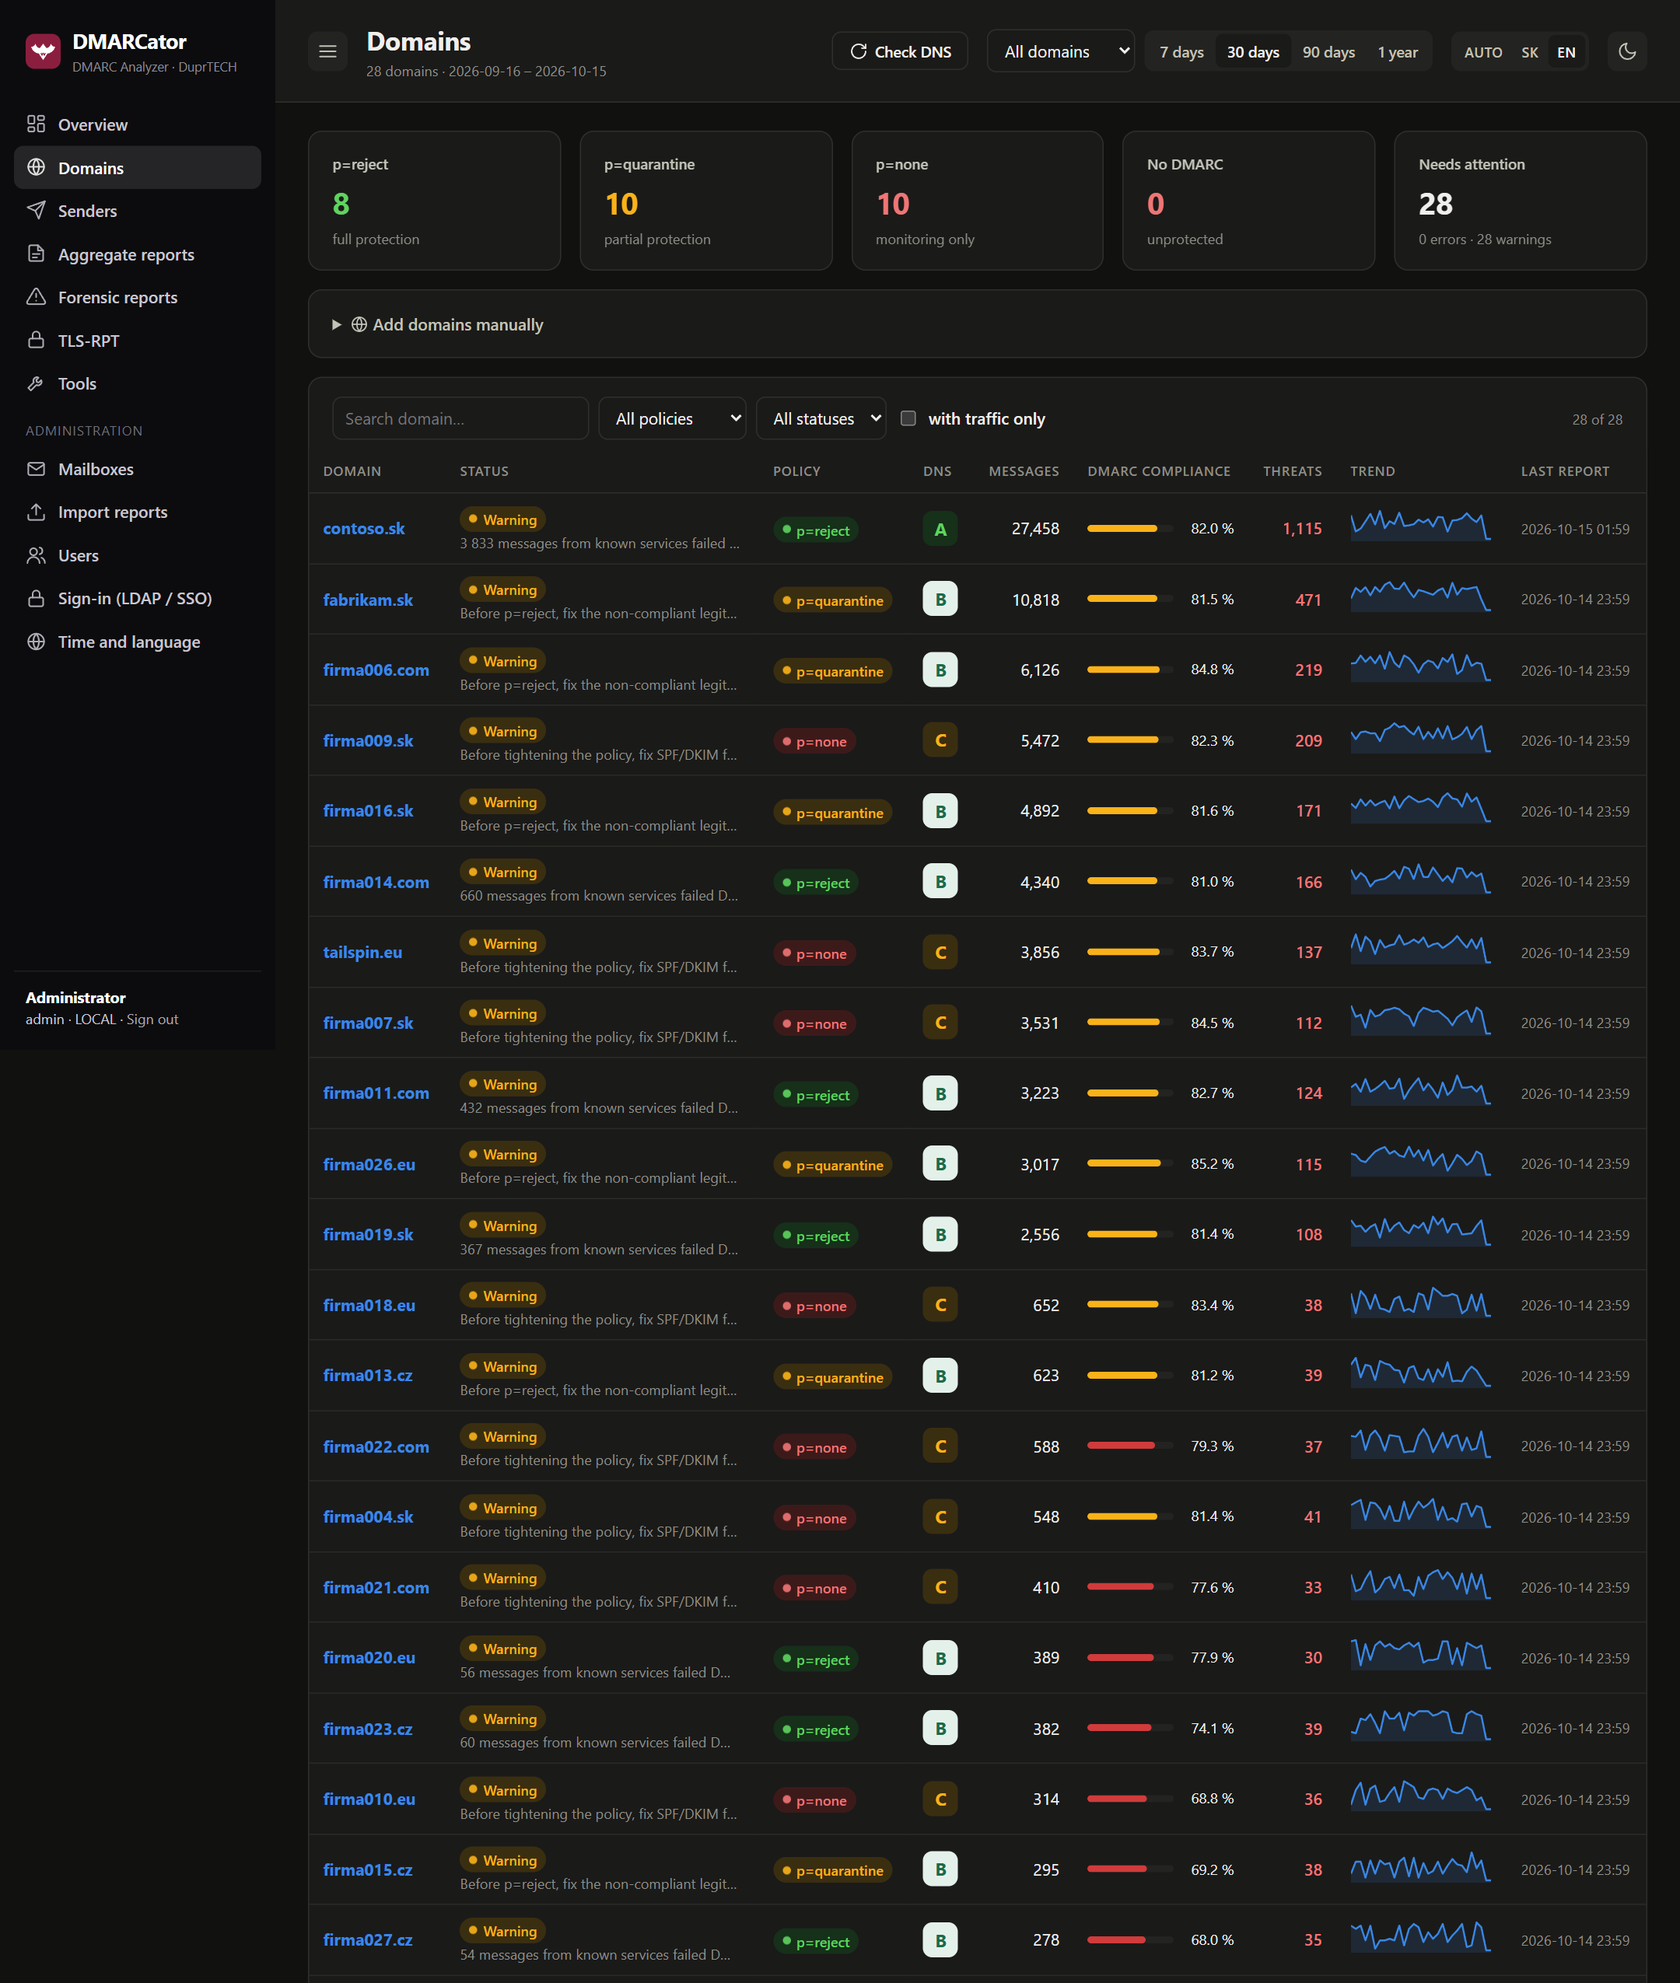
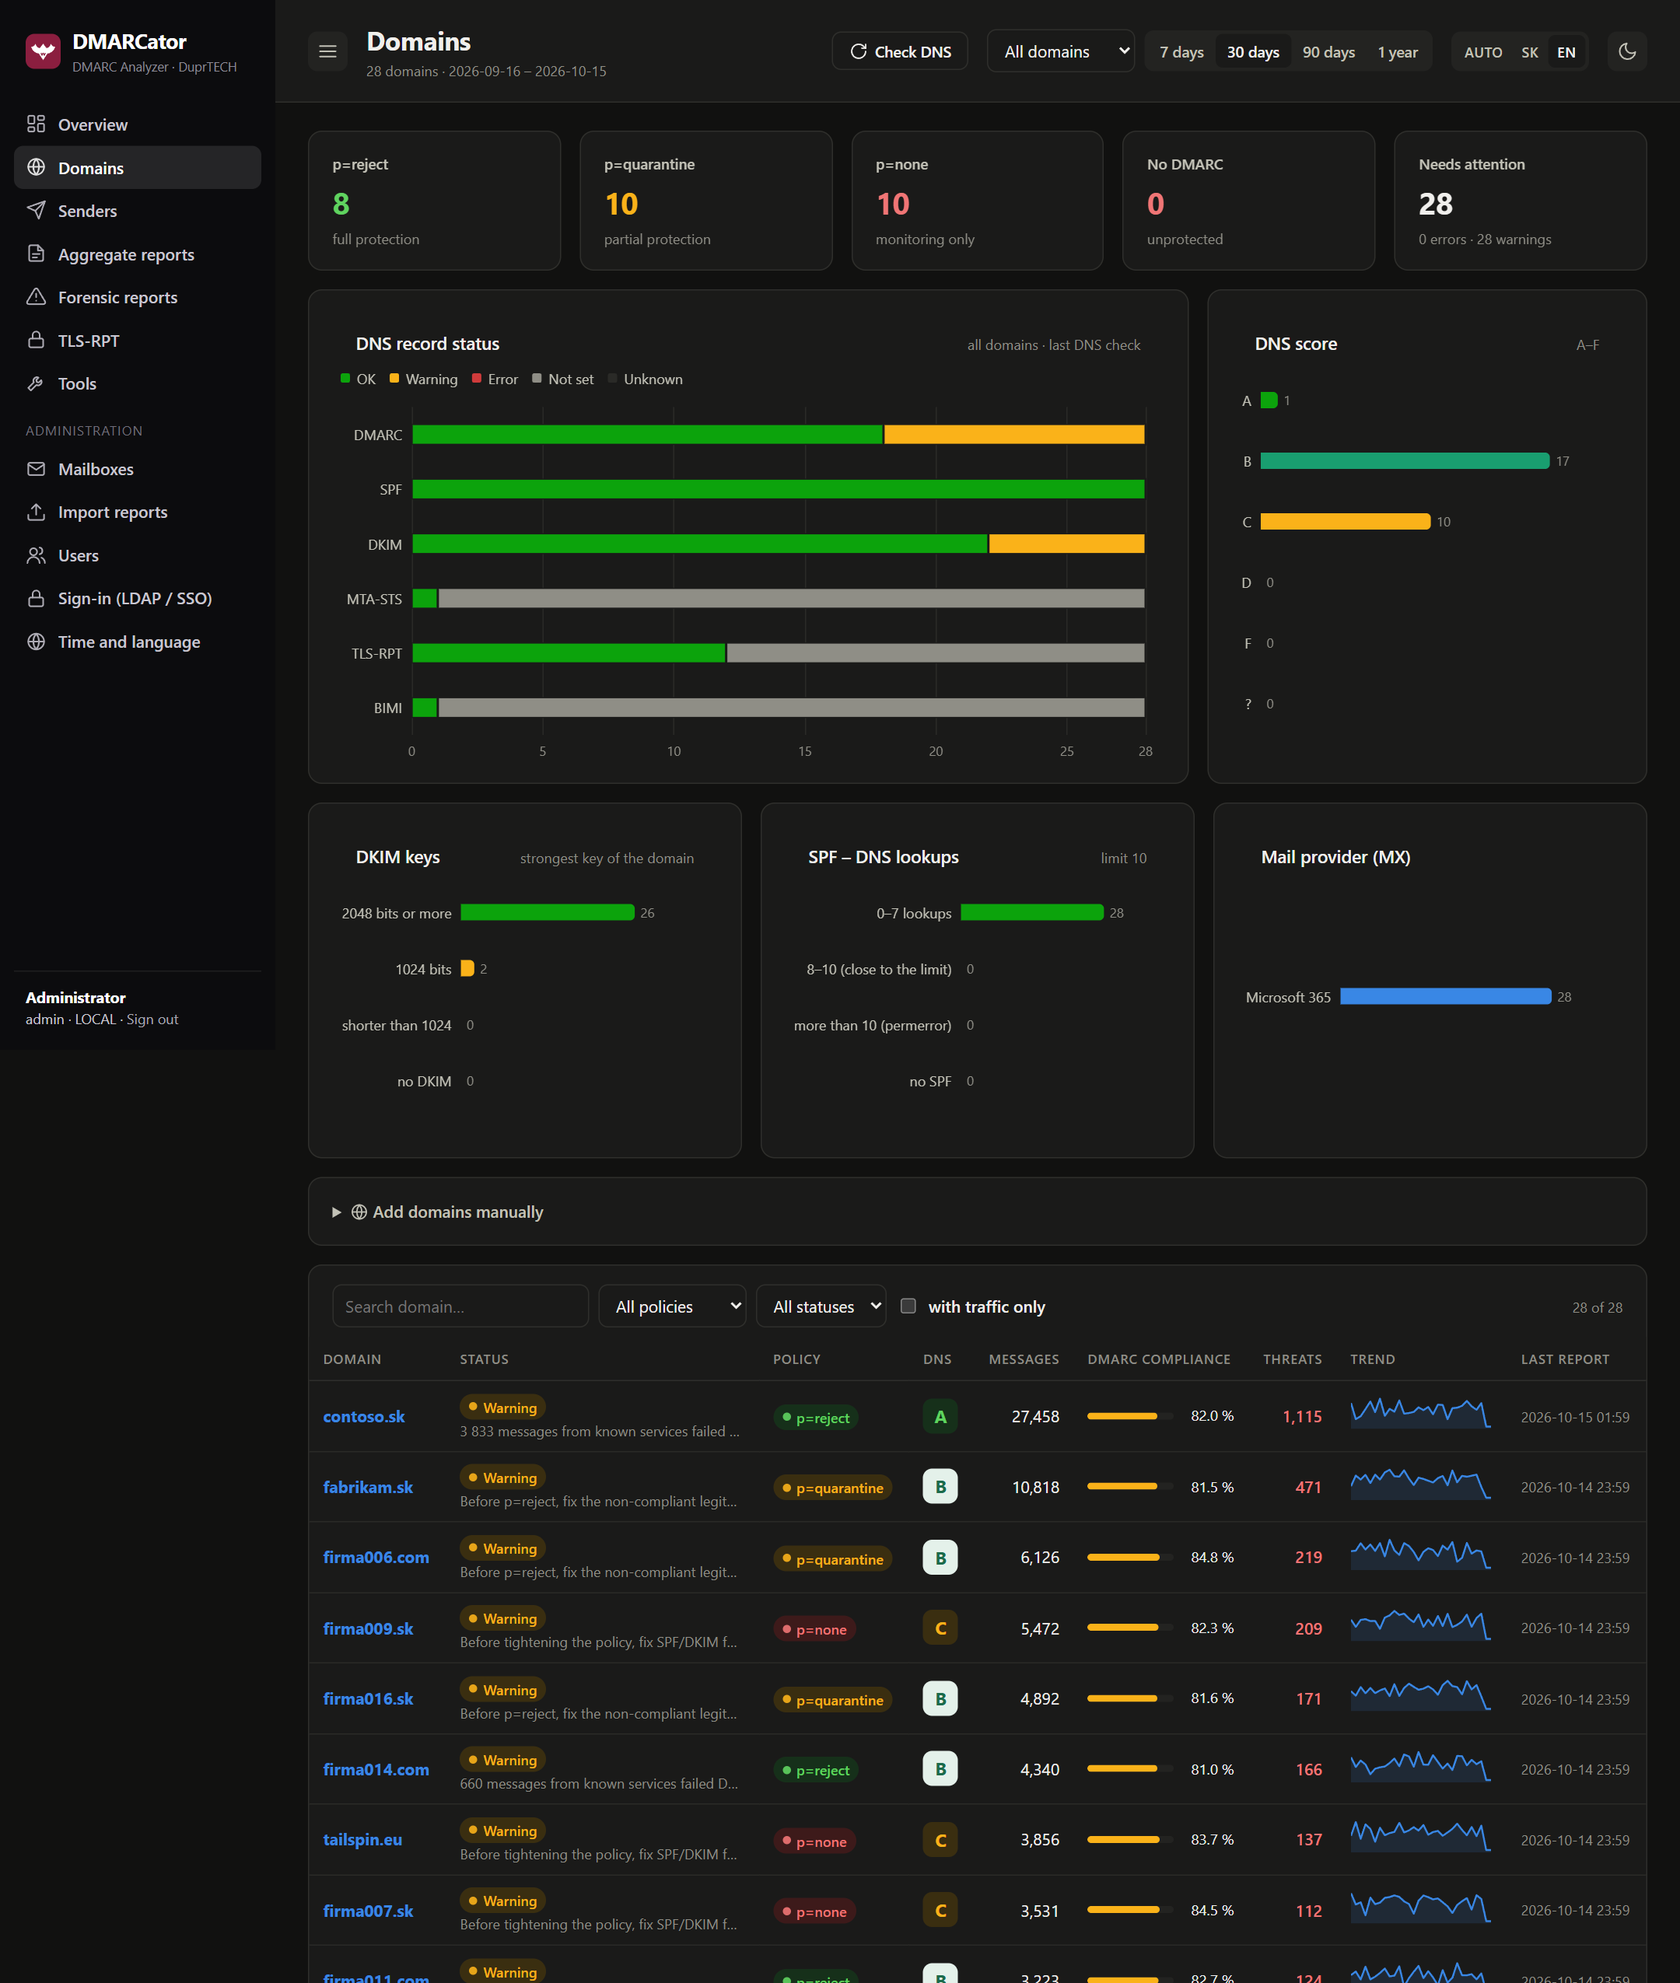
Domains page: DNS charts – record status per check, DNS score, DKIM keys, SPF lookups, MX provider

diff --git a/app/templates/domains.html b/app/templates/domains.html
@@ -26,6 +26,33 @@
   <div class="card kpi"><div class="label">{{ _('Vyžaduje zásah') }}</div><div class="value">{{ by_level.error + by_level.warn }}</div><div class="foot">{{ _('{e} chýb · {w} upozornení', e=by_level.error, w=by_level.warn) }}</div></div>
 </div>
 
+{% if domains %}
+<div class="grid g-21 mt">
+  <div class="card">
+    <div class="card-head"><h2>{{ _('Stav DNS záznamov') }}</h2><span class="hint">{{ _('všetky domény · posledná kontrola DNS') }}</span></div>
+    <div id="ch-checks" class="chart tall" role="img" aria-label="{{ _('Počet domén podľa stavu DMARC, SPF, DKIM, MTA-STS, TLS-RPT a BIMI') }}"></div>
+  </div>
+  <div class="card">
+    <div class="card-head"><h2>{{ _('DNS skóre') }}</h2><span class="hint">A–F</span></div>
+    <div id="ch-grades" class="chart tall" role="img" aria-label="{{ _('Počet domén podľa DNS skóre') }}"></div>
+  </div>
+</div>
+<div class="grid g-3 mt">
+  <div class="card">
+    <div class="card-head"><h2>{{ _('DKIM kľúče') }}</h2><span class="hint">{{ _('najsilnejší kľúč domény') }}</span></div>
+    <div id="ch-dkim" class="chart short" role="img" aria-label="{{ _('Počet domén podľa dĺžky DKIM kľúča') }}"></div>
+  </div>
+  <div class="card">
+    <div class="card-head"><h2>{{ _('SPF – DNS lookupy') }}</h2><span class="hint">{{ _('limit 10') }}</span></div>
+    <div id="ch-spf" class="chart short" role="img" aria-label="{{ _('Počet domén podľa počtu SPF DNS lookupov') }}"></div>
+  </div>
+  <div class="card">
+    <div class="card-head"><h2>{{ _('Poskytovateľ pošty (MX)') }}</h2></div>
+    <div id="ch-mx" class="chart short" role="img" aria-label="{{ _('Počet domén podľa poskytovateľa MX') }}"></div>
+  </div>
+</div>
+{% endif %}
+
 {% if user.role == 'admin' %}
 <details class="card mt">
   <summary>{{ icon('globe') }} {{ _('Pridať domény ručne') }}</summary>
@@ -87,6 +114,36 @@
 </div>
 {% endblock %}
 {% block scripts %}
+{% if domains %}
+<script>
+(function () {
+  const P = {{ posture|jsonify }};
+  DM.stateStack(document.getElementById("ch-checks"), P.checks, [
+    {key: "ok", name: "{{ _('OK') }}", color: "good"},
+    {key: "warn", name: "{{ _('Upozornenie') }}", color: "warning"},
+    {key: "error", name: "{{ _('Chyba') }}", color: "critical"},
+    {key: "missing", name: "{{ _('Nenastavené') }}", color: "muted"},
+    {key: "unknown", name: "{{ _('Nezistené') }}", color: "grid"},
+  ]);
+  const G = {A: "good", B: "s3", C: "warning", D: "serious", F: "critical", "?": "muted"};
+  DM.hbar(document.getElementById("ch-grades"), Object.keys(G).map((g) => ({name: g, value: P.grades[g], color: G[g]})));
+  DM.hbar(document.getElementById("ch-dkim"), [
+    {name: "{{ _('2048 bitov a viac') }}", value: P.dkim_keys["2048"], color: "good"},
+    {name: "{{ _('1024 bitov') }}", value: P.dkim_keys["1024"], color: "warning"},
+    {name: "{{ _('kratší ako 1024') }}", value: P.dkim_keys.weak, color: "critical"},
+    {name: "{{ _('bez DKIM') }}", value: P.dkim_keys.none, color: "muted"},
+  ]);
+  DM.hbar(document.getElementById("ch-spf"), [
+    {name: "{{ _('0–7 lookupov') }}", value: P.spf_lookups.le7, color: "good"},
+    {name: "{{ _('8–10 (blízko limitu)') }}", value: P.spf_lookups["8-10"], color: "warning"},
+    {name: "{{ _('viac ako 10 (permerror)') }}", value: P.spf_lookups.gt10, color: "critical"},
+    {name: "{{ _('bez SPF') }}", value: P.spf_lookups.none, color: "muted"},
+  ]);
+  const MX = {"Iné": "{{ _('Iné') }}", "Bez MX": "{{ _('Bez MX') }}"};
+  DM.hbar(document.getElementById("ch-mx"), P.mx.slice(0, 8).map(([name, value]) => ({name: MX[name] || name, value: value})));
+})();
+</script>
+{% endif %}
 <script>
 (function () {
   const q = document.getElementById("dom-q"), pol = document.getElementById("dom-policy"),

diff --git a/app/static/js/app.js b/app/static/js/app.js
@@ -186,10 +186,41 @@
           yAxis: { type: "category", data: rows.map((r) => t(r.name)), axisLine: { show: false }, axisTick: { show: false },
             axisLabel: { color: p.text2, fontSize: 12, width: 150, overflow: "truncate" } },
           series: [{
-            type: "bar", barMaxWidth: 14, data: rows.map((r) => r.value),
+            type: "bar", barMaxWidth: 14,
+            // optional per-row colour (status keys such as "good" / "critical") for state breakdowns
+            data: rows.map((r) => (r.color ? { value: r.value, itemStyle: { color: colorOf(p, r.color) } } : r.value)),
             itemStyle: { color: opts.color ? p[opts.color] : p.accent, borderRadius: [0, 4, 4, 0] },
             label: { show: true, position: "right", color: p.muted, fontSize: 11, formatter: (i) => fmt(i.value) },
           }],
+        });
+      });
+    },
+
+    /** One horizontal bar per row (e.g. a DNS check), stacked by state; every row sums to all domains.
+     *  states: [{key, name, color}] in stacking order. */
+    stateStack(el, rows, states) {
+      return register(el, (p) => {
+        const names = rows.map((r) => r.name).reverse();
+        const data = rows.slice().reverse();
+        const total = (r) => states.reduce((s, st) => s + (r[st.key] || 0), 0);
+        return Object.assign(base(p), {
+          grid: { left: 8, right: 16, top: 36, bottom: 4, containLabel: true },
+          legend: { top: 0, left: 0, icon: "roundRect", itemWidth: 10, itemHeight: 10, textStyle: { color: p.text2 } },
+          tooltip: Object.assign(base(p).tooltip, { trigger: "axis", axisPointer: { type: "shadow", shadowStyle: { color: p.surface2, opacity: .6 } },
+            formatter: (items) => {
+              const r = data[items[0].dataIndex];
+              return `<b>${r.name}</b><br>` + items.filter((i) => i.value).map((i) =>
+                `${i.marker} ${i.seriesName}: <b>${fmt(i.value)}</b> (${pct(100 * i.value / (total(r) || 1))})`).join("<br>");
+            } }),
+          xAxis: Object.assign({ type: "value", minInterval: 1, max: Math.max(1, ...data.map(total)) }, axisCommon(p)),
+          yAxis: { type: "category", data: names, axisLine: { show: false }, axisTick: { show: false },
+            axisLabel: { color: p.text2, fontSize: 12 } },
+          series: states.map((st, i) => ({
+            name: st.name, type: "bar", stack: "s", barMaxWidth: 18, data: data.map((r) => r[st.key] || 0),
+            itemStyle: { color: colorOf(p, st.color), borderColor: p.surface, borderWidth: 1,
+              borderRadius: i === states.length - 1 ? [0, 4, 4, 0] : 0 },
+            emphasis: { focus: "series" },
+          })),
         });
       });
     },

diff --git a/app/analysis/stats.py b/app/analysis/stats.py
@@ -316,6 +316,53 @@ def domains_overview(db: Session, f: Filter) -> list[dict]:
     return out
 
 
+DNS_CHECKS = (("dmarc", "DMARC"), ("spf", "SPF"), ("dkim", "DKIM"), ("mta_sts", "MTA-STS"),
+              ("tls_rpt", "TLS-RPT"), ("bimi", "BIMI"))
+DNS_STATES = ("ok", "warn", "error", "missing", "unknown")
+
+
+def _check_state(result: dict | None, key: str) -> str:
+    """ok / warn / error for a published record, "missing" when there is none, "unknown" when the
+    domain wasn't checked yet or the DNS server didn't answer."""
+    if not result or key not in result:
+        return "unknown"
+    r = result[key]
+    if r.get("status") == "unknown":
+        return "unknown"
+    present = bool(r.get("selectors")) if key == "dkim" else bool(r.get("record"))
+    if not present:
+        return "missing"
+    return {"warn": "warn", "error": "error"}.get(r.get("status"), "ok")
+
+
+def dns_posture(db: Session) -> dict:
+    """DNS state of all domains for the charts on the Domains page (from the stored DNS checks)."""
+    checks = {key: dict.fromkeys(DNS_STATES, 0) for key, _ in DNS_CHECKS}
+    grades = dict.fromkeys(("A", "B", "C", "D", "F", "?"), 0)
+    dkim_keys = dict.fromkeys(("2048", "1024", "weak", "none"), 0)
+    spf_lookups = dict.fromkeys(("le7", "8-10", "gt10", "none"), 0)
+    mx: dict[str, int] = defaultdict(int)
+    for dns in db.scalars(select(Domain.dns)):
+        for key, _ in DNS_CHECKS:
+            checks[key][_check_state(dns, key)] += 1
+        dns = dns or {}
+        grades[dns.get("grade") if dns.get("grade") in grades else "?"] += 1
+        bits = [s.get("bits") or 2048 for s in (dns.get("dkim") or {}).get("selectors", []) if not s.get("revoked")]
+        dkim_keys["none" if not bits else "2048" if max(bits) >= 2048 else "1024" if max(bits) >= 1024 else "weak"] += 1
+        spf = dns.get("spf") or {}
+        n = spf.get("lookups") or 0
+        spf_lookups["none" if not spf.get("record") else "le7" if n <= 7 else "8-10" if n <= 10 else "gt10"] += 1
+        hosts = (dns.get("mx") or {}).get("hosts") or []
+        mx[(dns.get("mx") or {}).get("provider") or ("Iné" if hosts else "Bez MX")] += 1
+    return {
+        "checks": [{"key": key, "name": name, **checks[key]} for key, name in DNS_CHECKS],
+        "grades": grades,
+        "dkim_keys": dkim_keys,
+        "spf_lookups": spf_lookups,
+        "mx": sorted(mx.items(), key=lambda kv: (-kv[1], kv[0])),
+    }
+
+
 # --------------------------------------------------------------- insights
 
 

diff --git a/app/i18n_en.py b/app/i18n_en.py
@@ -75,6 +75,30 @@ EN: dict[str, str] = {
     "Príliš veľa neúspešných pokusov. Skúste to o 5 minút.": "Too many failed attempts. Try again in 5 minutes.",
     "Nesprávne meno alebo heslo.": "Wrong username or password.",
     "SSO prihlásenie zlyhalo.": "SSO sign-in failed.",
+    "Stav DNS záznamov": "DNS record status",
+    "OK": "OK",
+    "všetky domény · posledná kontrola DNS": "all domains · last DNS check",
+    "Počet domén podľa stavu DMARC, SPF, DKIM, MTA-STS, TLS-RPT a BIMI": "Number of domains by DMARC, SPF, DKIM, MTA-STS, TLS-RPT and BIMI status",
+    "DNS skóre": "DNS score",
+    "Počet domén podľa DNS skóre": "Number of domains by DNS score",
+    "DKIM kľúče": "DKIM keys",
+    "najsilnejší kľúč domény": "strongest key of the domain",
+    "Počet domén podľa dĺžky DKIM kľúča": "Number of domains by DKIM key length",
+    "SPF – DNS lookupy": "SPF – DNS lookups",
+    "limit 10": "limit 10",
+    "Počet domén podľa počtu SPF DNS lookupov": "Number of domains by SPF DNS lookup count",
+    "Poskytovateľ pošty (MX)": "Mail provider (MX)",
+    "Počet domén podľa poskytovateľa MX": "Number of domains by MX provider",
+    "2048 bitov a viac": "2048 bits or more",
+    "1024 bitov": "1024 bits",
+    "kratší ako 1024": "shorter than 1024",
+    "bez DKIM": "no DKIM",
+    "0–7 lookupov": "0–7 lookups",
+    "8–10 (blízko limitu)": "8–10 (close to the limit)",
+    "viac ako 10 (permerror)": "more than 10 (permerror)",
+    "bez SPF": "no SPF",
+    "Iné": "Other",
+    "Bez MX": "No MX",
     "Váš účet čaká na schválenie – požiadajte administrátora o pridelenie roly.": "Your account is waiting for approval – ask an administrator to grant you a role.",
     "bez prístupu": "no access",
     "bez prístupu (schváli administrátor)": "no access (an administrator approves)",

diff --git a/app/routes/pages.py b/app/routes/pages.py
@@ -64,7 +64,8 @@ def domains(request: Request, f: Filter = Depends(flt), db: Session = Depends(ge
             d["issues"] = [x["msg"] for x in r.get("recommendations", []) if x["level"] in ("error", "warn")]
         return overview
 
-    return render(request, "domains.html", _ctx(db, f, domains=cached(("domains", f.start, f.end), compute)))
+    return render(request, "domains.html", _ctx(db, f, domains=cached(("domains", f.start, f.end), compute),
+                                                posture=cached(("dns_posture",), lambda: stats.dns_posture(db))))
 
 
 @router.get("/domains/{name}")

diff --git a/CHANGELOG.md b/CHANGELOG.md
@@ -25,6 +25,9 @@ The running version is shown in the page footer, by `GET /healthz` and by `pytho
   verified tenant domains via Graph (`Domain.Read.All`); with the mailbox option *Import domains from
   Microsoft 365 automatically* this also runs with every daily DNS check. Imported domains are DNS-checked right away
   and then daily, so domains without DMARC or DKIM show up even before any report arrives.
+- **DNS charts on the Domains page:** how many domains have DMARC, SPF, DKIM, MTA-STS, TLS-RPT
+  and BIMI OK / with warnings / with errors / not set, DNS score A–F, DKIM key length, SPF lookups and
+  MX provider.
 - **New LDAP / SSO users get no access until approved:** new role `none`, now the default
   `DEFAULT_ROLE` for new installations. Such users see *waiting for approval* and show up in *Users*,
   where an administrator grants `viewer` or `admin`. An admin group now decides only about the admin

diff --git a/docs/user-guide.md b/docs/user-guide.md
@@ -42,6 +42,9 @@ Every domain for which at least one report has arrived is listed automatically. 
 
 - **Summary tiles:** how many domains publish `p=reject`, `p=quarantine`, `p=none` or no DMARC
   record, and how many need attention.
+- **DNS charts** over all domains, from the latest DNS check: status of DMARC, SPF, DKIM, MTA-STS,
+  TLS-RPT and BIMI (OK / warning / error / not set), the A–F DNS score distribution, DKIM key length,
+  SPF DNS lookups against the limit of 10, and the mail provider from MX. Hover a bar for counts.
 - **Search and filters** by name, policy, status (*Chyba* error / *Upozornenie* warning / OK),
   and "only with traffic". Useful with 100+ domains.
 - **Stav** (status) column with the most important issue of each domain.

diff --git a/README.md b/README.md
@@ -73,7 +73,8 @@ Compliance, volume, alignment, services, recommendations, countries and domain t
 <details>
 <summary><strong>Domains — policy, DNS health and compliance</strong></summary>
 
-Search and filter domains, compare DNS scores, review policies and spot domains needing attention.
+DNS charts over all domains (DMARC, SPF, DKIM, MTA-STS, TLS-RPT, BIMI status, DNS score, DKIM key length,
+SPF lookups, MX provider), then search and filter domains, compare DNS scores and spot domains needing attention.
 
 ![Domain policy and compliance table](docs/screenshots/domains.png)
 
